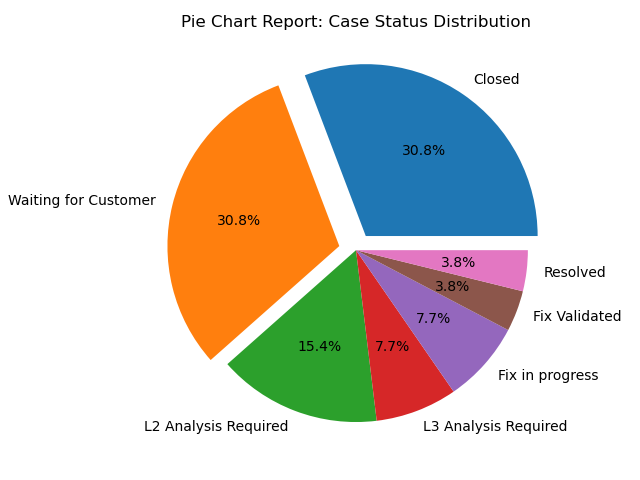
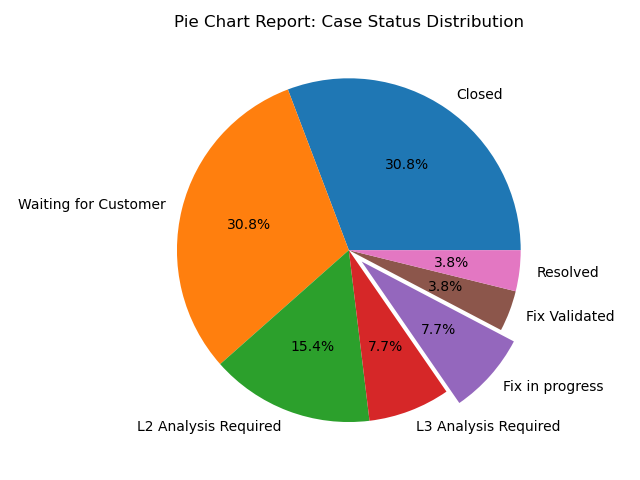
new explode change

diff --git a/chatbot.py b/chatbot.py
@@ -138,7 +138,8 @@ def create_graphs(df):
 
     # --- PIE CHART ---
     plt.figure()
-    explode = [0.1 if count == status_counts.max() else 0 for count in status_counts]
+    # explode = [0.1 if count == status_counts.max() else 0 for count in status_counts]
+    explode = [0.1 if status == "Fix in progress" else 0 for status in status_counts.index]
     status_counts.plot(kind='pie', autopct='%1.1f%%', explode=explode)
     plt.title("Pie Chart Report: Case Status Distribution")
     plt.ylabel("")  # remove extra label
